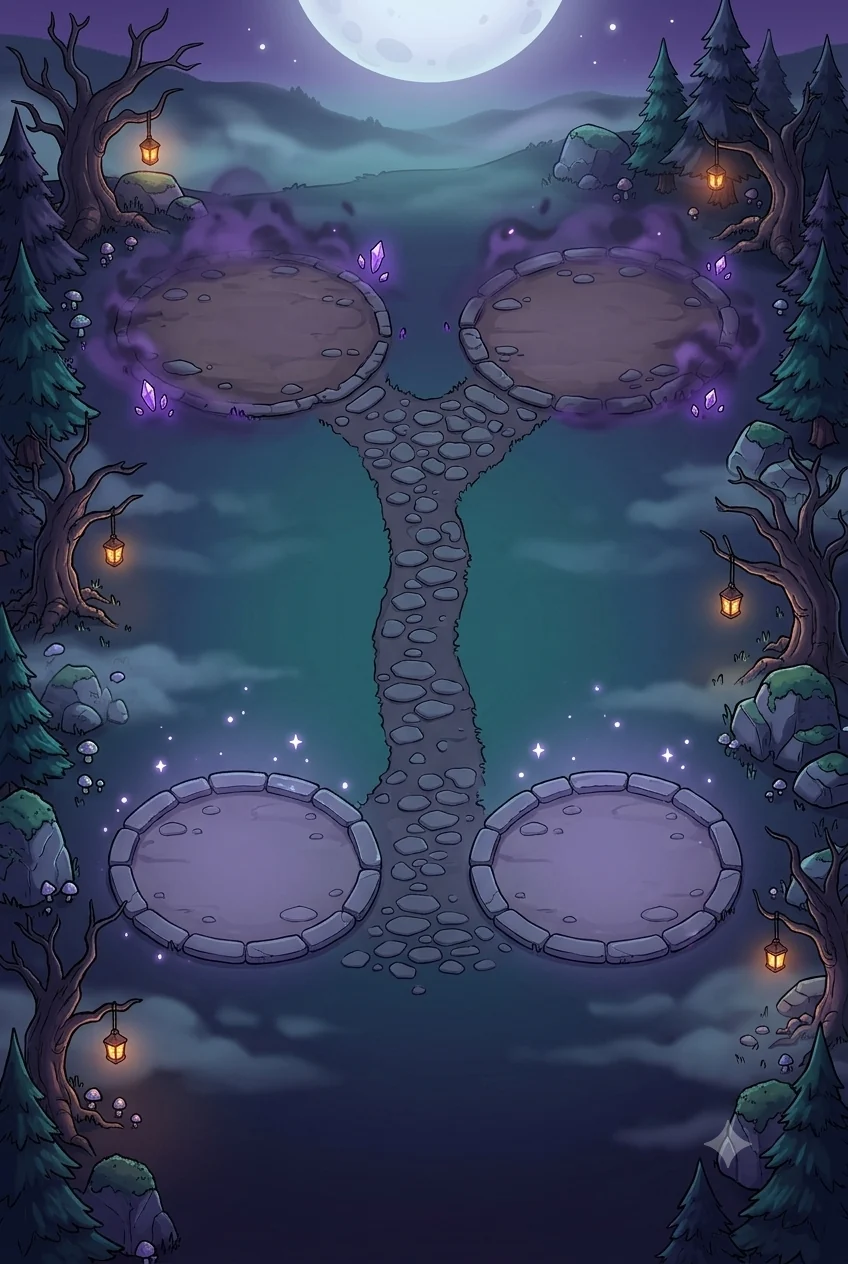
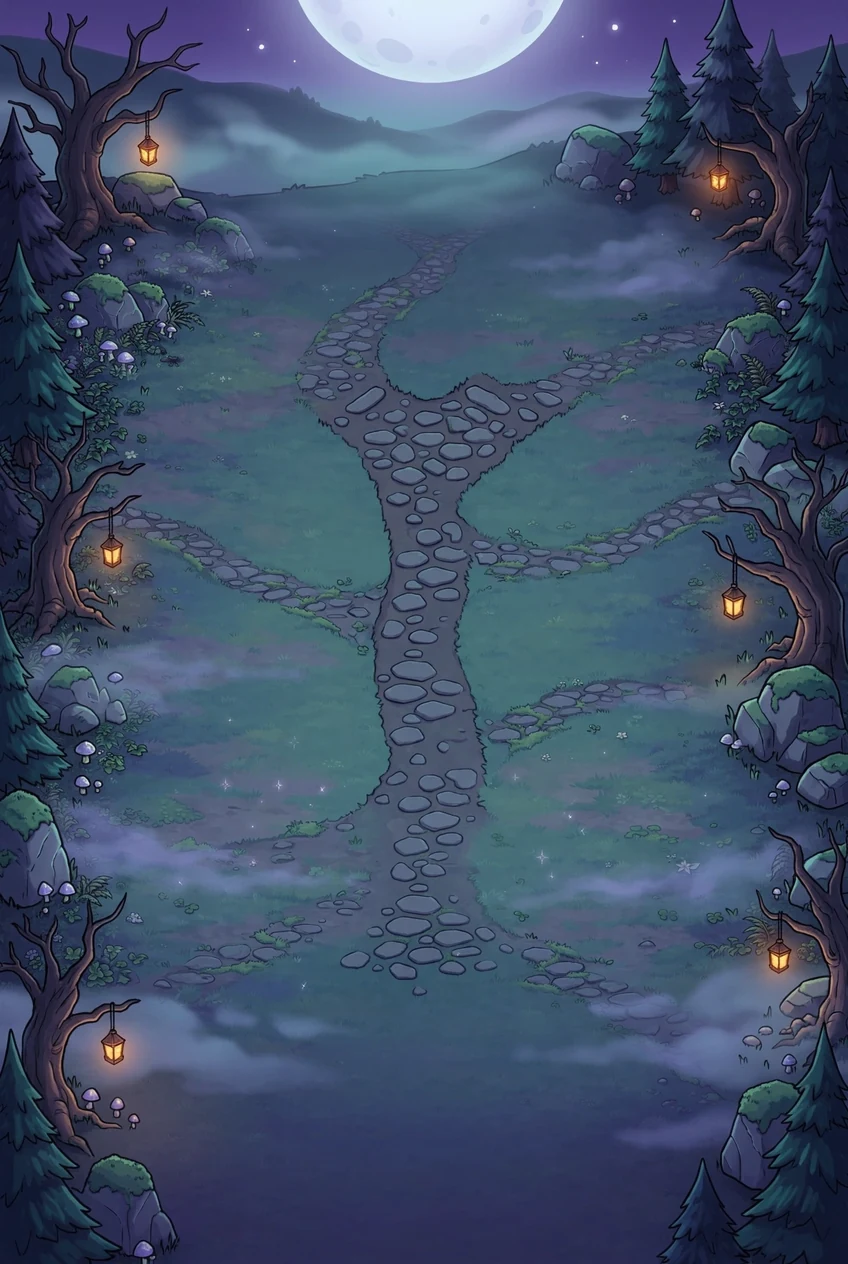
v0.6.1.0350: 마을 배경 교체(건물 자리 표시 제거)
Claude-Session: https://claude.ai/code/session_01AwLthSKStJ6TZafJZN1U3z

diff --git a/index.html b/index.html
@@ -1122,7 +1122,7 @@ body.hud-norank #dmgRank,body.hud-nocombo #combo{display:none!important}
     <div class="spVer" id="spVer"></div>
   </section>
   <section class="screen" id="sTitle">
-    <div class="ver" id="verT">v0.6.1.0349</div>
+    <div class="ver" id="verT">v0.6.1.0350</div>
     <button class="gearT" id="bSet" aria-label="메뉴"><svg viewBox="0 0 24 24" width="24" height="24" fill="none" stroke="currentColor" stroke-width="2.2" stroke-linecap="round" aria-hidden="true"><path d="M4 7h16M4 12h16M4 17h16"/></svg><i class="mnew" id="menuB" hidden>NEW</i></button>
     <button class="gearT" id="bFull" aria-label="전체화면" hidden></button>
     <div class="eyebrow">DARK GUARDIAN</div>

diff --git a/CLAUDE.md b/CLAUDE.md
@@ -1,3 +1,3 @@
 # 개발 규칙
 - 게임 밸런스/수치(확률, 데미지, 비용, 쿨타임, 드랍 등)를 바꿀 때마다 `patchnotes.txt` 맨 위에 해당 버전 항목을 추가하고 바뀐 수치를 간략히 적는다. 표기는 "변경: 120% → 90%", "상향: 3 → 5", "하향: …", "수정: …", "추가: …"처럼 쓴다("이전 → 이후:" 문구는 쓰지 않는다. 필요하면 "이전: A → 이후: B" 형태는 가능). (인게임 메뉴·설정·시작화면 버전 글자에서 이 파일을 보여줌)
-- 버전은 `0.6.1.NNNN` (빌드 번호 = 커밋 수 − 70, 0.4.0.0124 다음부터 0.4.1.0125 → 0.4.2.0128 → 0.4.2.0129 → 0.4.2.0130 → 0.4.2.0131 → 0.4.2.0132 → 0.4.2.0133 → 0.4.2.0134 → 0.4.2.0135 → 0.4.2.0136 → 0.4.2.0137 → 0.4.2.0138 → 0.4.2.0139 → 0.4.2.0140 → 0.4.2.0141 → 0.4.2.0142 → 0.4.2.0143 → 0.4.2.0144 → 0.4.2.0145 → 0.4.2.0146 → 0.4.2.0147 → 0.4.2.0148 → 0.4.2.0149 → 0.4.3.0150 → 0.4.3.0151 → 0.4.3.0152 → 0.4.3.0153 → 0.4.3.0154 → 0.4.3.0155 → 0.4.3.0156 → 0.4.3.0157 → 0.4.3.0158 → 0.4.3.0159 → 0.4.3.0160 → 0.4.3.0161 → 0.4.3.0162 → 0.4.3.0163 → 0.4.3.0164 → 0.4.3.0165 → 0.4.3.0166 → 0.4.3.0167 → 0.4.4.0168 → 0.4.4.0169 → 0.4.4.0170 → 0.4.4.0171 → 0.4.4.0172 → 0.4.4.0173 → 0.4.5.0174 → 0.4.5.0175 → 0.4.5.0176 → 0.4.5.0177 → 0.4.5.0178 → 0.4.5.0179 → 0.4.5.0180 → 0.4.6.0181 → 0.4.6.0182 → 0.4.6.0183 → 0.4.6.0184 → 0.4.6.0185 → 0.4.6.0186 → 0.4.6.0187 → 0.4.6.0188 → 0.4.6.0189 → 0.4.6.0190 → 0.4.6.0191 → 0.4.6.0192 → 0.4.6.0193 → 0.4.6.0194 → 0.4.6.0195 → 0.4.6.0196 → 0.4.7.0197 → 0.4.7.0198 → 0.4.7.0199 → 0.4.7.0200 → 0.4.7.0201 → 0.4.7.0202 → 0.4.7.0203 → 0.4.7.0204 → 0.4.7.0205 → 0.4.7.0206 → 0.4.7.0207 → 0.4.7.0208 → 0.5.0.0209 → 0.5.0.0210 → 0.5.0.0211 → 0.5.0.0212 → 0.5.0.0213 → 0.5.0.0214 → 0.5.0.0215 → 0.5.0.0216 → 0.5.0.0217 → 0.5.0.0218 → 0.5.0.0219 → 0.5.0.0220 → 0.5.0.0221 → 0.5.0.0222 → 0.5.0.0223 → 0.5.0.0224 → 0.5.0.0225 → 0.5.0.0226 → 0.5.0.0227 → 0.5.0.0228 → 0.5.0.0229 → 0.5.0.0230 → 0.5.0.0231 → 0.5.0.0232 → 0.5.0.0233 → 0.5.0.0234 → 0.5.0.0235 → 0.5.0.0236 → 0.5.0.0237 → 0.5.0.0238 → 0.5.0.0239 → 0.5.0.0240 → 0.5.0.0241 → 0.6.0.0241 → 0.6.0.0242 → 0.6.0.0243 → 0.6.0.0244 → 0.6.0.0245 → 0.6.0.0246 → 0.6.0.0247 → 0.6.0.0248 → 0.6.0.0249 → 0.6.0.0250 → 0.6.0.0251 → 0.6.0.0252 → 0.6.0.0253 → 0.6.0.0254 → 0.6.0.0255 → 0.6.0.0256 → 0.6.0.0257 → 0.6.0.0258 → 0.6.0.0259 → 0.6.0.0260 → 0.6.0.0261 → 0.6.0.0262 → 0.6.0.0263 → 0.6.0.0264 → 0.6.0.0265 → 0.6.0.0266 → 0.6.0.0267 → 0.6.0.0268 → 0.6.0.0269 → 0.6.0.0270 → 0.6.0.0271 → 0.6.0.0272 → 0.6.0.0273 → 0.6.0.0274 → 0.6.0.0275 → 0.6.0.0276 → 0.6.0.0277 → 0.6.0.0278 → 0.6.0.0279 → 0.6.0.0280 → 0.6.0.0281 → 0.6.0.0282 → 0.6.0.0283 → 0.6.0.0284 → 0.6.0.0285 → 0.6.0.0286 → 0.6.0.0287 → 0.6.0.0288 → 0.6.0.0289 → 0.6.0.0290 → 0.6.0.0291 → 0.6.0.0292 → 0.6.0.0293 → 0.6.0.0294 → 0.6.0.0295 → 0.6.0.0296 → 0.6.0.0297 → 0.6.0.0298 → 0.6.0.0299 → 0.6.0.0300 → 0.6.0.0301 → 0.6.0.0302 → 0.6.0.0303 → 0.6.0.0304 → 0.6.0.0305 → 0.6.0.0306 → 0.6.0.0307 → 0.6.0.0308 → 0.6.0.0309 → 0.6.0.0310 → 0.6.0.0311 → 0.6.0.0312 → 0.6.0.0313 → 0.6.0.0314 → 0.6.0.0315 → 0.6.0.0316 → 0.6.0.0317 → 0.6.0.0318 → 0.6.0.0319 → 0.6.0.0320 → 0.6.0.0321 → 0.6.0.0322 → 0.6.0.0323 → 0.6.0.0324 → 0.6.0.0325 → 0.6.0.0326 → 0.6.0.0327 → 0.6.0.0328 → 0.6.0.0329 → 0.6.0.0330 → 0.6.0.0331 → 0.6.0.0332 → 0.6.0.0333 → 0.6.0.0334 → 0.6.0.0335 → 0.6.0.0336 → 0.6.0.0337 → 0.6.0.0338 → 0.6.0.0339 → 0.6.0.0340 → 0.6.1.0341 → 0.6.1.0342 → 0.6.1.0343 → 0.6.1.0344 → 0.6.1.0345 → 0.6.1.0346 → 0.6.1.0347 → 0.6.1.0348 → 0.6.1.0349로 이어서 증가). 커밋 때 patchnotes.txt의 버전 번호도 맞춘다.
+- 버전은 `0.6.1.NNNN` (빌드 번호 = 커밋 수 − 70, 0.4.0.0124 다음부터 0.4.1.0125 → 0.4.2.0128 → 0.4.2.0129 → 0.4.2.0130 → 0.4.2.0131 → 0.4.2.0132 → 0.4.2.0133 → 0.4.2.0134 → 0.4.2.0135 → 0.4.2.0136 → 0.4.2.0137 → 0.4.2.0138 → 0.4.2.0139 → 0.4.2.0140 → 0.4.2.0141 → 0.4.2.0142 → 0.4.2.0143 → 0.4.2.0144 → 0.4.2.0145 → 0.4.2.0146 → 0.4.2.0147 → 0.4.2.0148 → 0.4.2.0149 → 0.4.3.0150 → 0.4.3.0151 → 0.4.3.0152 → 0.4.3.0153 → 0.4.3.0154 → 0.4.3.0155 → 0.4.3.0156 → 0.4.3.0157 → 0.4.3.0158 → 0.4.3.0159 → 0.4.3.0160 → 0.4.3.0161 → 0.4.3.0162 → 0.4.3.0163 → 0.4.3.0164 → 0.4.3.0165 → 0.4.3.0166 → 0.4.3.0167 → 0.4.4.0168 → 0.4.4.0169 → 0.4.4.0170 → 0.4.4.0171 → 0.4.4.0172 → 0.4.4.0173 → 0.4.5.0174 → 0.4.5.0175 → 0.4.5.0176 → 0.4.5.0177 → 0.4.5.0178 → 0.4.5.0179 → 0.4.5.0180 → 0.4.6.0181 → 0.4.6.0182 → 0.4.6.0183 → 0.4.6.0184 → 0.4.6.0185 → 0.4.6.0186 → 0.4.6.0187 → 0.4.6.0188 → 0.4.6.0189 → 0.4.6.0190 → 0.4.6.0191 → 0.4.6.0192 → 0.4.6.0193 → 0.4.6.0194 → 0.4.6.0195 → 0.4.6.0196 → 0.4.7.0197 → 0.4.7.0198 → 0.4.7.0199 → 0.4.7.0200 → 0.4.7.0201 → 0.4.7.0202 → 0.4.7.0203 → 0.4.7.0204 → 0.4.7.0205 → 0.4.7.0206 → 0.4.7.0207 → 0.4.7.0208 → 0.5.0.0209 → 0.5.0.0210 → 0.5.0.0211 → 0.5.0.0212 → 0.5.0.0213 → 0.5.0.0214 → 0.5.0.0215 → 0.5.0.0216 → 0.5.0.0217 → 0.5.0.0218 → 0.5.0.0219 → 0.5.0.0220 → 0.5.0.0221 → 0.5.0.0222 → 0.5.0.0223 → 0.5.0.0224 → 0.5.0.0225 → 0.5.0.0226 → 0.5.0.0227 → 0.5.0.0228 → 0.5.0.0229 → 0.5.0.0230 → 0.5.0.0231 → 0.5.0.0232 → 0.5.0.0233 → 0.5.0.0234 → 0.5.0.0235 → 0.5.0.0236 → 0.5.0.0237 → 0.5.0.0238 → 0.5.0.0239 → 0.5.0.0240 → 0.5.0.0241 → 0.6.0.0241 → 0.6.0.0242 → 0.6.0.0243 → 0.6.0.0244 → 0.6.0.0245 → 0.6.0.0246 → 0.6.0.0247 → 0.6.0.0248 → 0.6.0.0249 → 0.6.0.0250 → 0.6.0.0251 → 0.6.0.0252 → 0.6.0.0253 → 0.6.0.0254 → 0.6.0.0255 → 0.6.0.0256 → 0.6.0.0257 → 0.6.0.0258 → 0.6.0.0259 → 0.6.0.0260 → 0.6.0.0261 → 0.6.0.0262 → 0.6.0.0263 → 0.6.0.0264 → 0.6.0.0265 → 0.6.0.0266 → 0.6.0.0267 → 0.6.0.0268 → 0.6.0.0269 → 0.6.0.0270 → 0.6.0.0271 → 0.6.0.0272 → 0.6.0.0273 → 0.6.0.0274 → 0.6.0.0275 → 0.6.0.0276 → 0.6.0.0277 → 0.6.0.0278 → 0.6.0.0279 → 0.6.0.0280 → 0.6.0.0281 → 0.6.0.0282 → 0.6.0.0283 → 0.6.0.0284 → 0.6.0.0285 → 0.6.0.0286 → 0.6.0.0287 → 0.6.0.0288 → 0.6.0.0289 → 0.6.0.0290 → 0.6.0.0291 → 0.6.0.0292 → 0.6.0.0293 → 0.6.0.0294 → 0.6.0.0295 → 0.6.0.0296 → 0.6.0.0297 → 0.6.0.0298 → 0.6.0.0299 → 0.6.0.0300 → 0.6.0.0301 → 0.6.0.0302 → 0.6.0.0303 → 0.6.0.0304 → 0.6.0.0305 → 0.6.0.0306 → 0.6.0.0307 → 0.6.0.0308 → 0.6.0.0309 → 0.6.0.0310 → 0.6.0.0311 → 0.6.0.0312 → 0.6.0.0313 → 0.6.0.0314 → 0.6.0.0315 → 0.6.0.0316 → 0.6.0.0317 → 0.6.0.0318 → 0.6.0.0319 → 0.6.0.0320 → 0.6.0.0321 → 0.6.0.0322 → 0.6.0.0323 → 0.6.0.0324 → 0.6.0.0325 → 0.6.0.0326 → 0.6.0.0327 → 0.6.0.0328 → 0.6.0.0329 → 0.6.0.0330 → 0.6.0.0331 → 0.6.0.0332 → 0.6.0.0333 → 0.6.0.0334 → 0.6.0.0335 → 0.6.0.0336 → 0.6.0.0337 → 0.6.0.0338 → 0.6.0.0339 → 0.6.0.0340 → 0.6.1.0341 → 0.6.1.0342 → 0.6.1.0343 → 0.6.1.0344 → 0.6.1.0345 → 0.6.1.0346 → 0.6.1.0347 → 0.6.1.0348 → 0.6.1.0349 → 0.6.1.0350으로 이어서 증가). 커밋 때 patchnotes.txt의 버전 번호도 맞춘다.
